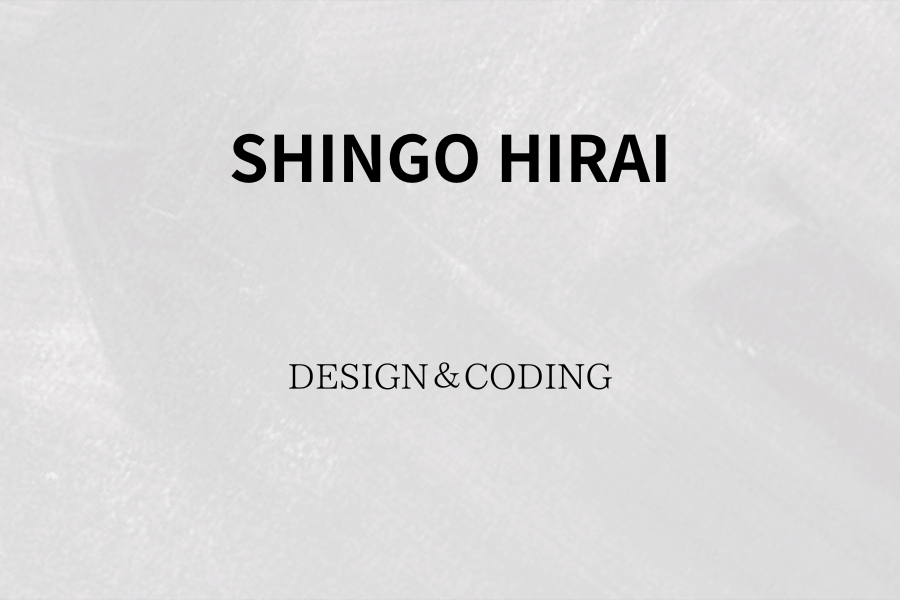
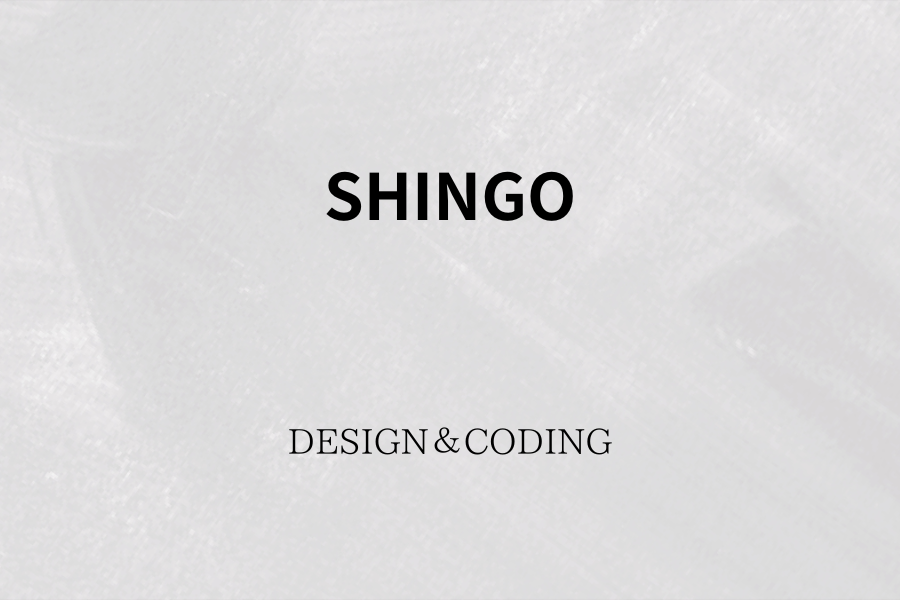
Add files via upload

Changed region(s): [[0.2489, 0.21, 0.7467, 0.39], [0.3111, 0.6, 0.6844, 0.66], [0.3111, 0.72, 0.6844, 0.78]]

diff --git a/index.html b/index.html
@@ -18,7 +18,7 @@
     <header class="header ">
       <div class="container">
         <h1 class="header-logo">
-          <a href="index.html">SHINGO HIRAI</a>
+          <a href="index.html">SHINGO</a>
         </h1>
         <nav class="gnav">
           <ul class="gnav-list">
@@ -140,7 +140,7 @@
                 SHINGO
               </p>
               <p>
-                山梨県在住。フリーランスとしてWeb制作をしております。Web制作におけるデザイン、コーディング、スマートフォンサイト対応、WordPressなどが得意分野です。低予算でWebサイトをお作りしますので、お気軽にお問い合わせください。
+                フリーランスとしてWeb制作をしております。Web制作におけるデザイン、コーディング、スマートフォンサイト対応、WordPressなどが得意分野です。低予算でWebサイトをお作りしますので、お気軽にお問い合わせください。
               </p>
               
             </div>
@@ -174,7 +174,7 @@
 
     <!-- footer -->
     <footer class="footer">
-      <div class="copyright">&copy;SHINGO HIRAI</div>
+      <div class="copyright">&copy;SHINGO</div>
     </footer>
     <!-- /footer -->
 

diff --git a/contact.html b/contact.html
@@ -17,7 +17,7 @@
      <header class="header ">
       <div class="container">
         <h1 class="header-logo">
-          <a href="index.html">SHINGO HIRAI</a>
+          <a href="index.html">SHINGO</a>
         </h1>
         <nav class="gnav">
           <ul class="gnav-list">
@@ -91,7 +91,7 @@
 
     <!-- footer -->
     <footer class="footer">
-      <div class="copyright">&copy;SHINGO HIRAI</div>
+      <div class="copyright">&copy;SHINGO</div>
     </footer>
     <!-- /footer -->
 

diff --git a/thanks.html b/thanks.html
@@ -17,7 +17,7 @@
      <header class="header ">
       <div class="container">
         <h1 class="header-logo">
-          <a href="index.html">SHINGO HIRAI</a>
+          <a href="index.html">SHINGO</a>
         </h1>
         <nav class="gnav">
           <ul class="gnav-list">
@@ -44,7 +44,7 @@
 
     <!-- footer -->
     <footer class="footer">
-      <div class="copyright">&copy;SHINGO HIRAI</div>
+      <div class="copyright">&copy;SHINGO</div>
     </footer>
     <!-- /footer -->
 

diff --git a/works-1.html b/works-1.html
@@ -18,7 +18,7 @@
     <header class="header ">
       <div class="container">
         <h1 class="header-logo">
-          <a href="index.html">SHINGO HIRAI</a>
+          <a href="index.html">SHINGO</a>
         </h1>
         <nav class="gnav">
           <ul class="gnav-list">
@@ -70,7 +70,7 @@
 
     <!-- footer -->
     <footer class="footer">
-      <div class="copyright">&copy;SHINGO HIRAI</div>
+      <div class="copyright">&copy;SHINGO</div>
     </footer>
     <!-- /footer -->
 

diff --git a/works-2.html b/works-2.html
@@ -18,7 +18,7 @@
     <header class="header ">
       <div class="container">
         <h1 class="header-logo">
-          <a href="index.html">SHINGO HIRAI</a>
+          <a href="index.html">SHINGO</a>
         </h1>
         <nav class="gnav">
           <ul class="gnav-list">
@@ -70,7 +70,7 @@
 
     <!-- footer -->
     <footer class="footer">
-      <div class="copyright">&copy;SHINGO HIRAI</div>
+      <div class="copyright">&copy;SHINGO</div>
     </footer>
     <!-- /footer -->
 

diff --git a/works-3.html b/works-3.html
@@ -18,7 +18,7 @@
     <header class="header ">
       <div class="container">
         <h1 class="header-logo">
-          <a href="index.html">SHINGO HIRAI</a>
+          <a href="index.html">SHINGO</a>
         </h1>
         <nav class="gnav">
           <ul class="gnav-list">
@@ -70,7 +70,7 @@
 
     <!-- footer -->
     <footer class="footer">
-      <div class="copyright">&copy;SHINGO HIRAI</div>
+      <div class="copyright">&copy;SHINGO</div>
     </footer>
     <!-- /footer -->
 

diff --git a/works-4.html b/works-4.html
@@ -18,7 +18,7 @@
     <header class="header ">
       <div class="container">
         <h1 class="header-logo">
-          <a href="index.html">SHINGO HIRAI</a>
+          <a href="index.html">SHINGO</a>
         </h1>
         <nav class="gnav">
           <ul class="gnav-list">
@@ -68,7 +68,7 @@
 
     <!-- footer -->
     <footer class="footer">
-      <div class="copyright">&copy;SHINGO HIRAI</div>
+      <div class="copyright">&copy;SHINGO</div>
     </footer>
     <!-- /footer -->
 

diff --git a/works-5.html b/works-5.html
@@ -18,7 +18,7 @@
     <header class="header ">
       <div class="container">
         <h1 class="header-logo">
-          <a href="index.html">SHINGO HIRAI</a>
+          <a href="index.html">SHINGO</a>
         </h1>
         <nav class="gnav">
           <ul class="gnav-list">
@@ -74,7 +74,7 @@
 
     <!-- footer -->
     <footer class="footer">
-      <div class="copyright">&copy;SHINGO HIRAI</div>
+      <div class="copyright">&copy;SHINGO</div>
     </footer>
     <!-- /footer -->
 

diff --git a/works-6.html b/works-6.html
@@ -18,7 +18,7 @@
     <header class="header ">
       <div class="container">
         <h1 class="header-logo">
-          <a href="index.html">SHINGO HIRAI</a>
+          <a href="index.html">SHINGO</a>
         </h1>
         <nav class="gnav">
           <ul class="gnav-list">
@@ -70,7 +70,7 @@
 
     <!-- footer -->
     <footer class="footer">
-      <div class="copyright">&copy;SHINGO HIRAI</div>
+      <div class="copyright">&copy;SHINGO</div>
     </footer>
     <!-- /footer -->
 
